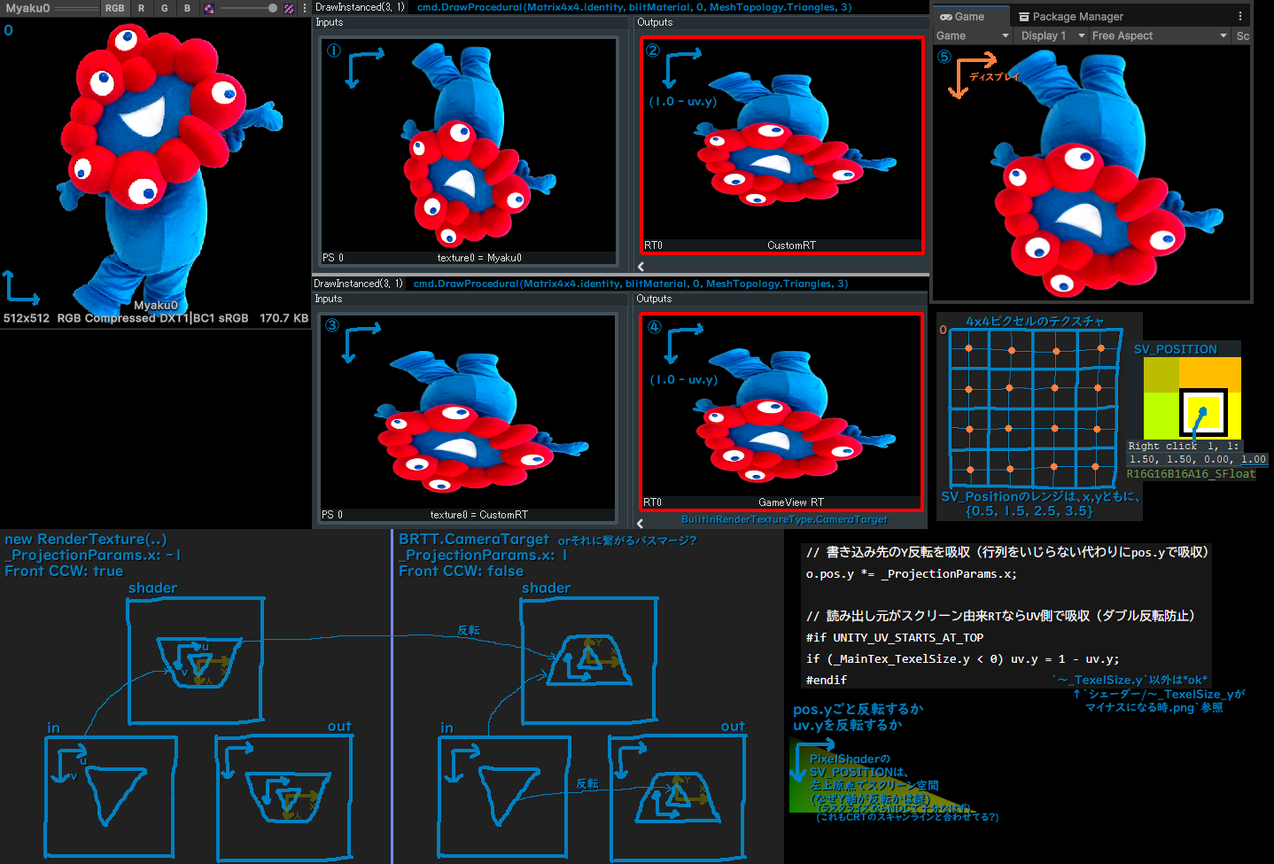
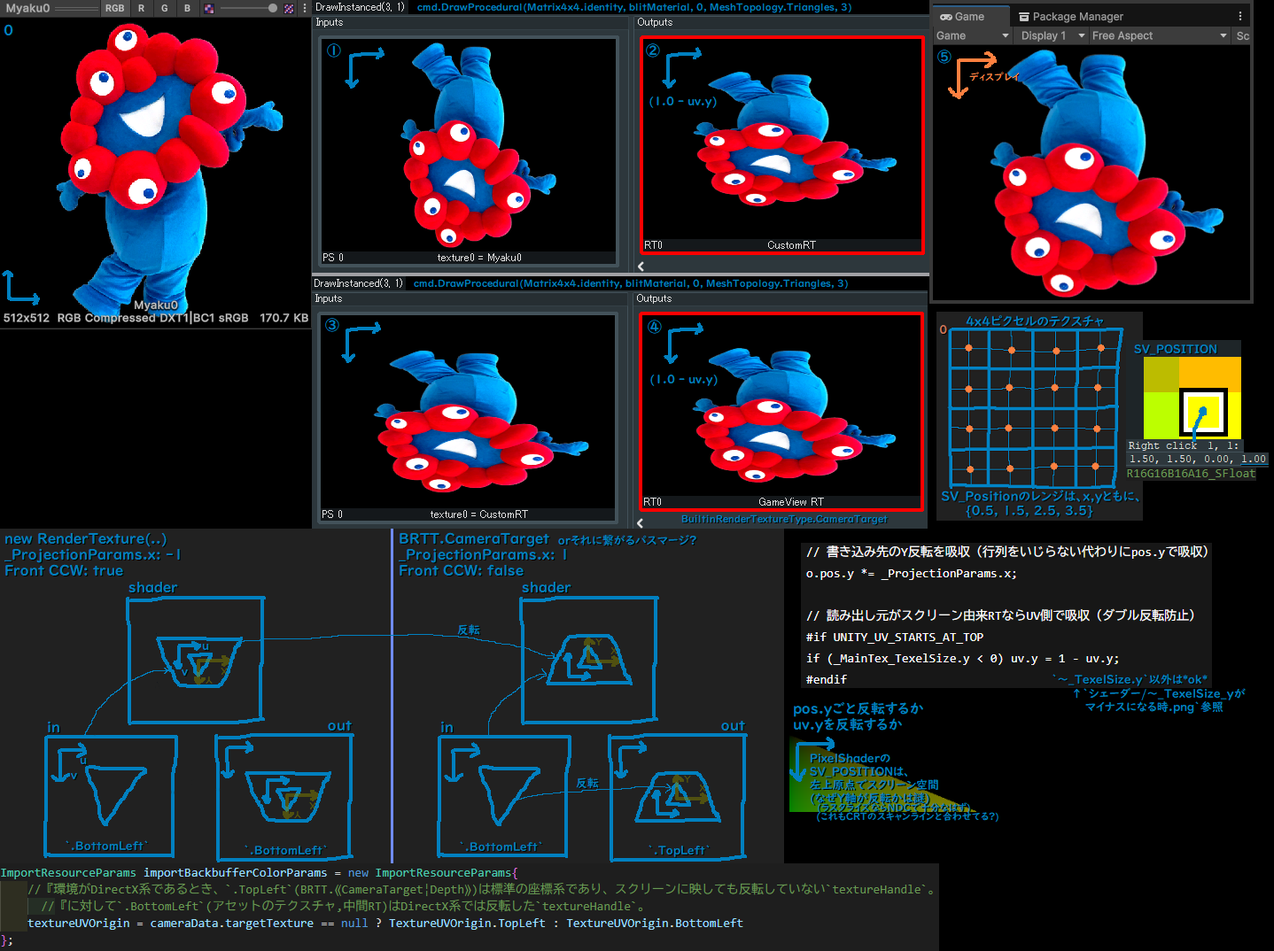
OnMainRendering突入

diff --git a/Unity_memo/グラフィックス関連/URPレンダリングフローまとめ1.md b/Unity_memo/グラフィックス関連/URPレンダリングフローまとめ1.md
@@ -10,7 +10,7 @@
         UniversalResourceData resourceData = frameData.Get<UniversalResourceData>();
 
         useRenderPassEnabled = renderGraph.nativeRenderPassesEnabled;
-        MotionVectorRenderPass.SetRenderGraphMotionVectorGlobalMatrices(renderGraph, cameraData); //『保留
+        MotionVectorRenderPass.SetRenderGraphMotionVectorGlobalMatrices(renderGraph, cameraData);
 
         /*☆*/m_ForwardLights.SetupRenderGraphLights(renderGraph, frameData.Get<UniversalRenderingData>(), cameraData, frameData.Get<UniversalLightData>());
 
@@ -18,17 +18,43 @@
 
         RecordCustomRenderGraphPasses(renderGraph, RenderPassEvent.BeforeRendering);
 
-        TextureHandle target = resourceData.activeColorTexture.IsValid() ? resourceData.activeColorTexture : resourceData.activeDepthTexture;
-        SetupRenderGraphCameraProperties(renderGraph, target);
+        TextureHandle activeTargetForIsYFlipped = resourceData.activeColorTexture.IsValid() ? resourceData.activeColorTexture : resourceData.activeDepthTexture;
+        /*☆*/SetupRenderGraphCameraProperties(renderGraph, activeTargetForIsYFlipped);
 
-    #if VISUAL_EFFECT_GRAPH_0_0_1_OR_NEWER
-        ProcessVFXCameraCommand(renderGraph);
-    #endif
+        #if VISUAL_EFFECT_GRAPH_0_0_1_OR_NEWER //『↓コードが有効でない(灰色)なのは、このUnityプロジェクトに`Visual Effect Graph パッケージ`が入っていない
+                    ProcessVFXCameraCommand(renderGraph); //『AddUnsafePass =>
+                        //『CommandBufferHelpers.VFXManager_ProcessCameraCommand(cmd, camera, cullResults) =>extern
+        #endif
 
         if (requireResults.isCameraTargetOffscreenDepth){OnOffscreenDepthTextureRendering(renderGraph, context, resourceData, cameraData); return;}
         OnBeforeRendering(renderGraph);
         OnMainRendering(renderGraph, context, requireResults.renderPassInputs, requireResults.requirePrepass, requireResults.requireDepthTexture);
         OnAfterRendering(renderGraph, requireResults.applyPostProcessing);
+    }
+    ```
+  - `void MotionVectorRenderPass.SetRenderGraphMotionVectorGlobalMatrices(renderGraph, cameraData)`
+    ```csharp (images\URPレンダリングフローまとめ\まとめ1\SetRenderGraphMotionVectorGlobalMatrices.png)
+    static void SetRenderGraphMotionVectorGlobalMatrices(RenderGraph renderGraph, UniversalCameraData cameraData)
+    {
+        if (cameraData.camera.TryGetComponent<UniversalAdditionalCameraData>(out var additionalCameraData))
+        {
+            using (var builder = renderGraph.AddRasterRenderPass<MotionMatrixPassData>(s_SetMotionMatrixProfilingSampler.name, out var passData, s_SetMotionMatrixProfilingSampler))
+            {
+                passData.motionData = additionalCameraData.motionVectorsPersistentData;
+                passData.xr = cameraData.xr;
+
+                builder.AllowGlobalStateModification(true);
+                builder.SetRenderFunc(static (MotionMatrixPassData data, RasterGraphContext context) =>
+                {
+                    data.motionData.SetGlobalMotionMatrices(context.cmd, data.xr);
+                        //『class MotionVectorsPersistentData
+                            //『var passID/*`0`*/ = GetXRMultiPassId(xr); //『`xr.enabled==false`なので`0`が返る
+                            //『cmd.SetGlobalMatrix(ShaderPropertyId.previousViewProjectionNoJitter/*_PrevViewProjMatrix*/, previousViewProjectionStereo[passID]);
+                            //『cmd.SetGlobalMatrix(ShaderPropertyId.viewProjectionNoJitter/*_NonJitteredViewProjMatrix*/, viewProjectionStereo[passID]);
+
+                });
+            }
+        }
     }
     ```
   - `void m_ForwardLights.`**SetupRenderGraphLights**`(renderGraph, frameData.Get<UniversalRenderingData>(), cameraData, frameData.Get<UniversalLightData>())`
@@ -812,7 +838,8 @@
                 bool clearBackbufferOnFirstUse = (cameraData.renderType == CameraRenderType.Base) && !s_RequiresIntermediateAttachments; //『`中間RT`が全画面より小さい`Viewport`の可能性があるためクリアできない
                 clearBackbufferOnFirstUse |= isCameraTargetOffscreenDepth; // オフスクリーン深度テクスチャへレンダリングしている場合はクリアを強制します。
                 bool noStoreOnlyResolveBBColor = !s_RequiresIntermediateAttachments && (cameraData.cameraTargetDescriptor.msaaSamples > 1); //『>MSAA の生データを最後まで store しなくても、 resolve 済み結果だけ残せばいい。
-                TextureUVOrigin backbufferTextureUVOrigin = cameraData.targetTexture == null ? TextureUVOrigin.TopLeft : TextureUVOrigin.BottomLeft;//『`.TopLeft`は反転するという意思表示?
+                //『環境がDirectX系であるとき、`.TopLeft`(BRTT.⟪CameraTarget¦Depth⟫)は標準の座標系であり、スクリーンに映しても反転していない`textureHandle`。に対して`.BottomLeft`(アセットのテクスチャ,中間RT)はDirectX系では反転した`textureHandle`。
+                TextureUVOrigin backbufferTextureUVOrigin = cameraData.targetTexture == null ? TextureUVOrigin.TopLeft : TextureUVOrigin.BottomLeft;
                 ImportResourceParams importBackbufferColorParams = new ImportResourceParams
                 {
                     clearOnFirstUse = clearBackbufferOnFirstUse,
@@ -1069,7 +1096,207 @@
                     }
                 }
                 ```
-  - `void OnBeforeRendering(renderGraph)`
+  - `void` **RecordCustomRenderGraphPasses**`(renderGraph, RenderPassEvent.BeforeRendering)`
+    ```csharp (関数圧縮:https://chatgpt.com/c/6a94ec55-3984-83ee-bb66-9a9bc2fb3209) (images\URPレンダリングフローまとめ\まとめ1\RecordCustomRenderGraphPasses.png)
+    internal void RecordCustomRenderGraphPasses(
+        RenderGraph renderGraph,
+        RenderPassEvent startInjectionPoint,
+        RenderPassEvent? endInjectionPoint = null)
+    {
+        RenderPassEvent end = endInjectionPoint ?? startInjectionPoint;
+        int range = ScriptableRenderPass.GetRenderPassEventRange(end);
+        RenderPassEvent eventEnd = end + range;
+
+        foreach (ScriptableRenderPass pass in m_ActiveRenderPassQueue)
+        {
+            if (pass.renderPassEvent >= startInjectionPoint &&
+                pass.renderPassEvent < eventEnd)
+            {
+                pass.RecordRenderGraph(renderGraph, m_frameData);
+            }
+        }
+    }
+    ```
+  - `void` **SetupRenderGraphCameraProperties**`(renderGraph, activeTargetForIsYFlipped)`
+    ```csharp (images\URPレンダリングフローまとめ\まとめ1\SetupRenderGraphCameraProperties\Input_hlsl.png)
+    internal void SetupRenderGraphCameraProperties(RenderGraph renderGraph, TextureHandle targetForIsYFlipped)
+    {
+        using (var builder = renderGraph.AddRasterRenderPass<PassData>(Profiling.setupCamera.name, out var passData,
+            Profiling.setupCamera))
+        {
+            passData.renderer = this;
+            passData.cameraData = frameData.Get<UniversalCameraData>();
+            passData.cameraTargetSizeCopy = new Vector2Int(passData.cameraData.cameraTargetDescriptor.width, passData.cameraData.cameraTargetDescriptor.height);
+            passData.targetForIsYFlipped = targetForIsYFlipped;
+
+            builder.AllowGlobalStateModification(true);
+
+            builder.SetRenderFunc(static (PassData data, RasterGraphContext context) =>
+            {
+                bool isTargetYFlipped = SystemInfo.graphicsUVStartsAtTop && RenderingUtils.IsHandleYFlipped(context, in data.targetForIsYFlipped);
+
+                if (data.cameraData.renderType == CameraRenderType.Base)
+                {
+                    context.cmd.SetupCameraProperties(data.cameraData.camera);
+                    data.renderer.SetPerCameraShaderVariables(context.cmd, data.cameraData, data.cameraTargetSizeCopy, isTargetYFlipped);
+                }
+                else //『`overlayCamera`は、`cmd.SetupCameraProperties(..)`を使わずに設定可能。
+                {
+                    data.renderer.SetPerCameraShaderVariables(context.cmd, data.cameraData, data.cameraTargetSizeCopy, isTargetYFlipped);
+                    data.renderer.SetPerCameraClippingPlaneProperties(context.cmd, in data.cameraData, isTargetYFlipped);
+                    data.renderer.SetPerCameraBillboardProperties(context.cmd, data.cameraData);
+                }
+
+                // `SetupCameraProperties(..)`で上書きされたシェーダー時間変数をリセットします。これを行わないと、シャドウとメインレンダリングの間で不一致が発生する可能性があります。
+                SetShaderTimeValues(context.cmd, Time.time, Time.deltaTime, Time.smoothDeltaTime); //『`Time.time`は、エディターで`Application.isPlaying==false`ならば`Time.realtimeSinceStartup`を使う
+            });
+        }
+    }
+    ```
+  - `void ProcessVFXCameraCommand(renderGraph)`: (images\URPレンダリングフローまとめ\まとめ1\ProcessVFXCameraCommand.png) (実際のエフェクト描画は`OnMainRendering(..)`の`cmd.DrawRendererList(rendererList)`)
+    - `void context.cmd.SetupCameraProperties(data.cameraData.camera)`: (classモジュール\images\SetupCameraProperties.png)
+    - `void data.renderer.`**SetPerCameraShaderVariables**`(context.cmd, data.cameraData, data.cameraTargetSizeCopy, isTargetYFlipped)`
+        ```csharp (images\URPレンダリングフローまとめ\まとめ1\SetupRenderGraphCameraProperties\SetPerCameraShaderVariables.png)
+        void SetPerCameraShaderVariables(RasterCommandBuffer cmd, UniversalCameraData cameraData, Vector2Int cameraTargetSizeCopy, bool isTargetYFlipped)
+        {
+            using var profScope = new ProfilingScope(Profiling.setPerCameraShaderVariables);
+
+            Camera camera = cameraData.camera;
+
+            //『カメラターゲットサイズ-------------(`cameraTargetSizeCopy.x = cameraData.scaledWidth = baseCamera.pixelWidth * cameraData.renderScale`)
+            float scaledCameraTargetWidth = (float)cameraTargetSizeCopy.x * (camera.allowDynamicResolution ? ScalableBufferManager.widthScaleFactor : 1.0f);
+            float scaledCameraTargetHeight = (float)cameraTargetSizeCopy.y * (camera.allowDynamicResolution ? ScalableBufferManager.heightScaleFactor : 1.0f);
+            // オーバーレイカメラはビューポートを持ちません。カメラのビューポートではなく、計算済み/継承されたビューポートを使用する必要があります。
+                //『分岐削除(`overlayCamera`も`baseCamera`の値を使う)
+            float cameraWidth = (float)cameraData.pixelWidth; //『(`baseCamera.pixelWidth`)
+            float cameraHeight = (float)cameraData.pixelHeight;
+
+            //『`camera`パラメータ---------------------------------------------------------------------------------
+            float near = camera.nearClipPlane;
+            float far = camera.farClipPlane;
+            float invNear = Mathf.Approximately(near, 0.0f) ? 0.0f : 1.0f / near;
+            float invFar = Mathf.Approximately(far, 0.0f) ? 0.0f : 1.0f / far;
+            float isOrthographic = camera.orthographic ? 1.0f : 0.0f;
+
+            //『各種GlobalPropertyを設定================================================================================
+            //『Cameraパラメータ===============----------------------------------
+            if (cameraData.renderType == CameraRenderType.Overlay)
+            {
+                // `projectionFlipSign`は GfxDevice::SetInvertProjectionMatrix の深部にあり、これは`overlayCamera`のゲームビュー向け。それ以外は`cmd.SetupCameraProperties(..)`で正しく設定される。
+                float projectionFlipSign = isTargetYFlipped ? -1.0f : 1.0f;
+                Vector4 projectionParams = new Vector4(projectionFlipSign, near, far, 1.0f * invFar);
+                /*☆*/cmd.SetGlobalVector(ShaderPropertyId.projectionParams, projectionParams);
+            }
+            // https://docs.unity3d.com/Manual/SL-UnityShaderVariables.html に記載されているCameraとScreenの変数 (images\URPレンダリングフローまとめ\まとめ1\SetupRenderGraphCameraProperties\UnityShaderVariables.png)
+            cmd.SetGlobalVector(ShaderPropertyId.worldSpaceCameraPos, cameraData.worldSpaceCameraPos);
+            cmd.SetGlobalVector(ShaderPropertyId.zBufferParams, GetZBufferParams(far, invNear, invFar));
+            cmd.SetGlobalVector(ShaderPropertyId.orthoParams, new Vector4(camera.orthographicSize * cameraData.aspectRatio, camera.orthographicSize, 0.0f, isOrthographic));
+
+            //『Screenサイズ===============----------------------------------
+            cmd.SetGlobalVector(ShaderPropertyId.screenParams, new Vector4(cameraWidth, cameraHeight, 1.0f + 1.0f / cameraWidth, 1.0f + 1.0f / cameraHeight));
+            //『`_ScaledScreenParams`,`_ScreenSize`は、`cameraData.cameraTargetDescriptor.width/height`を使用。(`camera.allowDynamicResolution==true`の場合に`ScalableBufferManager.width/heightScaleFactor`を乗算)
+            cmd.SetGlobalVector(ShaderPropertyId.scaledScreenParams, new Vector4(scaledCameraTargetWidth, scaledCameraTargetHeight, 1.0f + 1.0f / scaledCameraTargetWidth, 1.0f + 1.0f / scaledCameraTargetHeight));
+            /*☆*/cmd.SetGlobalVector(ShaderPropertyId.screenSize, new Vector4(scaledCameraTargetWidth, scaledCameraTargetHeight, 1.0f / scaledCameraTargetWidth, 1.0f / scaledCameraTargetHeight));
+            //『ScreenCoordOverride----------------------------------
+            cmd.SetKeyword(ShaderGlobalKeywords.SCREEN_COORD_OVERRIDE, cameraData.useScreenCoordOverride); //『(images\URPレンダリングフローまとめ\まとめ1\SetupRenderGraphCameraProperties\SCREEN_COORD_OVERRIDE.png)
+            cmd.SetGlobalVector(ShaderPropertyId.screenSizeOverride, cameraData.screenSizeOverride);
+            cmd.SetGlobalVector(ShaderPropertyId.screenCoordScaleBias, cameraData.screenCoordScaleBias);
+            //『_RTHandleScale----------------------------------
+            //『現状この箇所では固定値 // TODO(@sandy-carter): 動的スケーリングの準備ができたら RTHandles.rtHandleProperties.rtHandleScale に設定する
+            cmd.SetGlobalVector(ShaderPropertyId.rtHandleScale, Vector4.one);
+
+            //『☆_GlobalMipBias===============----------------------------------
+            //『5.6Sol:現在のレンダリング解像度ではなく、最終的な画像解像度に基づいてmipLvを補正する (`scaledCameraTargetWidth / cameraWidth`は単位変換)
+            // ダウンサンプリング時に画像のディテールを減らしてしまわないよう、この値を 0.0 以下にクランプ(Math.Min(., 0.0f))します。
+            float mipBias = Math.Min((float)Math.Log(scaledCameraTargetWidth / cameraWidth, 2.0f), 0.0f);
+            float taaMipBias = Math.Min(cameraData.taaSettings.mipBias, 0.0f); mipBias = Math.Min(mipBias, taaMipBias); // Temporal Anti-aliasing (気にしなくてよい)
+            cmd.SetGlobalVector(ShaderPropertyId.globalMipBias, new Vector2(mipBias, Mathf.Pow(2.0f, mipBias)));
+
+            //『SetCameraMatrices===============----------------------------------
+            SetCameraMatrices(cmd, cameraData, isTargetYFlipped);
+        }
+        //『(images\URPレンダリングフローまとめ\まとめ1\SetupRenderGraphCameraProperties\ZBufferParams.png)
+        static Vector4 GetZBufferParams(float far, float invNear, float invFar)
+        {
+            float zc0 = 1.0f - far * invNear;
+            float zc1 = far * invNear;
+            Vector4 zBufferParams = new Vector4(zc0, zc1, zc0 * invFar, zc1 * invFar);
+            if (SystemInfo.usesReversedZBuffer)
+            {
+                zBufferParams.y += zBufferParams.x;
+                zBufferParams.x = -zBufferParams.x;
+                zBufferParams.w += zBufferParams.z;
+                zBufferParams.z = -zBufferParams.z;
+            }
+            return zBufferParams;
+        }
+        ```
+      - `static void` **SetCameraMatrices**`(cmd, cameraData, isTargetYFlipped)`
+        ```csharp (images\URPレンダリングフローまとめ\まとめ1\SetupRenderGraphCameraProperties\SetCameraMatrices.png)
+        static void SetCameraMatrices(RasterCommandBuffer cmd, UniversalCameraData cameraData, bool isTargetYFlipped)
+        {
+            //『⟪V¦P¦VP⟫------------------------
+            // 注意: URP のデフォルトのメイン ビュー/プロジェクション 行列は CameraData のビュー/プロジェクション行列です。
+            Matrix4x4 viewMatrix = cameraData.GetViewMatrix();
+            Matrix4x4 projectionMatrix = cameraData.GetProjectionMatrix(); // ジッター適用済み、非 GPU
+            // デフォルトのビュー/プロジェクションを設定します。注意: projectionMatrix はレンダリング用に GPU プロジェクション (gfx API 調整済み) として設定されます。
+            cmd.SetViewProjectionMatrices(viewMatrix, projectionMatrix); //『**全ての順方向Matrix**を設定 (`glstate_matrix_projection`,`unity_Matrix⟪V¦VP⟫`)
+
[1 lines of base64/hex data omitted]
+
+            //『Camera版はZ反転を適用している------------------------
+            Matrix4x4 worldToCameraMatrix = Matrix4x4.Scale(new Vector3(1.0f, 1.0f, -1.0f)) * viewMatrix;
+            Matrix4x4 cameraToWorldMatrix = worldToCameraMatrix.inverse;
+            cmd.SetGlobalMatrix(ShaderPropertyId.worldToCameraMatrix, worldToCameraMatrix);
+            cmd.SetGlobalMatrix(ShaderPropertyId.cameraToWorldMatrix, cameraToWorldMatrix);
+            //『❰Inv❱⟪V¦P¦VP⟫------------------------
+            // TODO: ターゲット反転ロジックの分岐が異なるため、`inverseProjectionMatrix`は、実際のPの`glstate_matrix_projection`のInverseではない。つまり、`invP*P==I`と一致しない可能性があります。
+            Matrix4x4 gpuProjectionMatrix = cameraData.GetGPUProjectionMatrix(isTargetYFlipped);
+            Matrix4x4 inverseViewMatrix = Matrix4x4.Inverse(viewMatrix);
+            Matrix4x4 inverseProjectionMatrix = Matrix4x4.Inverse(gpuProjectionMatrix);
+            Matrix4x4 inverseViewProjection = inverseViewMatrix * inverseProjectionMatrix; //『これらを↓に移動
+            cmd.SetGlobalMatrix(ShaderPropertyId.inverseViewMatrix, inverseViewMatrix);
+            cmd.SetGlobalMatrix(ShaderPropertyId.inverseProjectionMatrix, inverseProjectionMatrix);
+            cmd.SetGlobalMatrix(ShaderPropertyId.inverseViewAndProjectionMatrix, inverseViewProjection);
+
+            // TODO: SetViewAndProjectionMatrices が y 反転 / ワインディング順の問題を引き起こす理由を調査する。当面は cmd.SetViewProjectionMatrices を使用する
+            //SetViewAndProjectionMatrices(cmd, viewMatrix, cameraData.GetDeviceProjectionMatrix()); //『将来的にこれ一括で＠❰Inv❱⟪V¦P¦VP⟫を設定する予定?
+            // TODO: オーバーレイカメラでしばらく正しく動作することを確認できたら、ここに SetPerCameraClippingPlaneProperties を追加する
+        }
+        ```
+    - `void data.renderer.SetPerCameraClippingPlaneProperties(context.cmd, in data.cameraData, isTargetYFlipped)`
+        ```csharp (images\URPレンダリングフローまとめ\まとめ1\SetupRenderGraphCameraProperties\SetPerCameraClippingPlaneProperties.png)
+        private void SetPerCameraClippingPlaneProperties(RasterCommandBuffer cmd, in UniversalCameraData cameraData, bool isTargetYFlipped)
+        {
+            Matrix4x4 projectionMatrix = cameraData.GetGPUProjectionMatrix(isTargetYFlipped);
+            Matrix4x4 viewMatrix = cameraData.GetViewMatrix();
+
+            Matrix4x4 viewProj = CoreMatrixUtils.MultiplyProjectionMatrix(projectionMatrix, viewMatrix, cameraData.camera.orthographic);
+            Plane[] planes = s_Planes;
+            GeometryUtility.CalculateFrustumPlanes(viewProj, planes); //『=>extern
+
+            Vector4[] cameraWorldClipPlanes = s_VectorPlanes;
+            for (int i = 0; i < planes.Length; ++i) //『6面分
+                cameraWorldClipPlanes[i] = new Vector4(planes[i].normal.x, planes[i].normal.y, planes[i].normal.z, planes[i].distance);
+
+            cmd.SetGlobalVectorArray(ShaderPropertyId.cameraWorldClipPlanes, cameraWorldClipPlanes);
+        }
+        ```
+    - `void data.renderer.SetPerCameraBillboardProperties(context.cmd, data.cameraData)`
+        ```csharp (images\URPレンダリングフローまとめ\まとめ1\SetupRenderGraphCameraProperties\SetPerCameraBillboardProperties.png)
+        void SetPerCameraBillboardProperties(RasterCommandBuffer cmd, UniversalCameraData cameraData)
+        {
+            cmd.SetKeyword(ShaderGlobalKeywords.BillboardFaceCameraPos, QualitySettings.billboardsFaceCameraPosition);
+
+            CalculateBillboardProperties(cameraData.GetViewMatrix(), out Vector3 billboardTangent, out Vector3 billboardNormal, out float cameraXZAngle); //『C#実装あり
+
+            cmd.SetGlobalVector(ShaderPropertyId.billboardNormal, new Vector4(billboardNormal.x, billboardNormal.y, billboardNormal.z, 0.0f));
+            cmd.SetGlobalVector(ShaderPropertyId.billboardTangent, new Vector4(billboardTangent.x, billboardTangent.y, billboardTangent.z, 0.0f)); //『多分TBN行列のようなものを作る
+            Vector3 cameraPos = cameraData.worldSpaceCameraPos;
+            cmd.SetGlobalVector(ShaderPropertyId.billboardCameraParams, new Vector4(cameraPos.x, cameraPos.y, cameraPos.z, cameraXZAngle)); //『`cameraXZAngle`によって画像を差し替える
+        }
+        ```
+  - `void OnBeforeRendering(renderGraph)`: (images\URPレンダリングフローまとめ\まとめ1\OnBeforeRendering.png)
     - `void m_ForwardLights.`**PreSetup**`(renderingData, cameraData, lightData)`
         ```csharp
         void PreSetup(UniversalRenderingData renderingData, UniversalCameraData cameraData, UniversalLightData lightData)

diff --git a/Unity_memo/グラフィックス関連/classモジュール/class_CommandBuffer.md b/Unity_memo/グラフィックス関連/classモジュール/class_CommandBuffer.md
@@ -6,7 +6,7 @@
   `camera.AddCommandBuffer(CameraEvent evt, CommandBuffer cmd)`,
   `light.AddCommandBuffer(LightEvent evt, CommandBuffer cmd ＠❰, ShadowMapPass shadowPassMask❱)`
 - `ctx.ExecuteCommandBuffer(cmd)`: `cmd`を積むだけ。(`ctx.ExecuteCB(cmd)`は`cmd`を**キャッシュして使い回す**ことができる。`⟪Begin¦End⟫Event(｢cmdName｣)`が自動的に挿入される)
-- `ctx.Submit()`: 積まれた`cmd群`の全ての処理が開始。(`ShaderProperty`が**反映される単位**)
+- `ctx.Submit()`: 積まれた`cmd群`の全ての処理が開始。(`LocalProperty`が**反映される単位**)
   - `Properties{..}`に**含める**と`LocalProperty`**のみ**(`.mat`に保存可能) (`⟪material¦compute⟫.Set～(..)`,`MaterialPropertyBlock`)
   - `Properties{..}`に**含めない**と`⟪Global¦Local⟫Property`**両方可能**'(優先順位`Local`>`Global`) (`cmd.SetGlobal～(..)`)
   - 優先順位: `MaterialPropertyBlock`>`Local`>`Global`>`Properties{..}の％値`
@@ -128,13 +128,13 @@
           :`Compute`Shaderで`⟪Buffer¦Texture⟫`を設定する場合は`int kernelIndex`が必要。
           後は大体`SetGlobal`と同じ。
       - VP_Matrix,クリッププレーン (**Draw～(..)系**の描画前に設定する)
-        - `SetupCameraProperties(Camera camera)`: `camera`から*VP_Matrix*と*クリッププレーン*を設定
-          :↓,↓↓の **ビューMatrix**,**プロジェクションMatrix** と **クリッププレーン**(`float4 unity_CameraWorldClipPlanes[6]`) と `float4 _ScreenParams` を設定
+        - `SetupCameraProperties(Camera camera)`: [SetupCameraProperties](images\SetupCameraProperties.png)
+          :**全てのMatrix**と**クリッププレーン**(`float4 unity_CameraWorldClipPlanes[6]`)と`float4 _ScreenParams`とその他色々..
+        - `SetViewProjectionMatrices(Matrix4x4 view, Matrix4x4 proj)`: **全ての順方向Matrix**を設定 (`glstate_matrix_projection`,`unity_Matrix⟪V¦VP⟫`)
         - `SetViewMatrix(Matrix4x4 view)`: ビューMatrix を設定 (`unity_MatrixV`)
           >Unityの`View`空間はOpenGLの規約と一致していて、カメラの前方方向が **-Z方向** なのです。
         - `SetProjectionMatrix(Matrix4x4 proj)`: プロジェクションMatrix を設定 (`glstate_matrix_projection`)
           設定例: `camera.projectionMatrix`, `Matrix4x4.Perspective(60, 1.777f, 0.1f, 100f)`
-        - `SetViewProjectionMatrices(Matrix4x4 view, Matrix4x4 proj)`: ビュープロジェクションMatrixを設定(**Build-inのみ**) (`unity_MatrixVP`)
       - その他
         - `SetComputeParamsFromMaterial(ComputeShader computeShader, int kernelIndex, Material material)`: `material`から**ShaderProperty**を設定 (ShaderKeywordはできない?) (`ComputeShader`の`Material`として使う?)
       - 一時RT

diff --git a/Unity_memo/グラフィックス関連/Core_hlsl/Core_hlslメモ.md b/Unity_memo/グラフィックス関連/Core_hlsl/Core_hlslメモ.md
@@ -271,8 +271,8 @@ float4x4 OptimizeProjectionMatrix(float4x4 M)
 // >例えば、シャドウをレンダリングしている間、以下の行列は依然として元のカメラの射影となります。
 float4x4 unity_CameraProjection; //=>元のカメラの OptimizeProjectionMatrix(❰float4x4❱ glstate_matrix_projection) ?
 float4x4 unity_CameraInvProjection; //=>元のカメラの unity_MatrixInvP
-float4x4 unity_WorldToCamera; //=>元のカメラの unity_MatrixV
-float4x4 unity_CameraToWorld; //=>元のカメラの unity_MatrixInvV
+float4x4 unity_WorldToCamera; //=>元のカメラの (Z反転) * unity_MatrixV
+float4x4 unity_CameraToWorld; //=>元のカメラの unity_MatrixInvV * (Z反転)
 ```
 
 #### Temporal Anti-aliasing用Matrix
@@ -481,7 +481,8 @@ float2 _GlobalMipBias; // Mipmapのバイアスを指定するパラメータ (#
 // スクリーン座標の編集系? //以下の上２つは ScreenCoordOverride.hlsl で使われていた
 float4 _ScreenCoordScaleBias; // ((positionCS.xy*0.5+0.5) * _ScreenCoordScaleBias.xy) + _ScreenCoordScaleBias.zw するもの?
 float4 _ScreenSizeOverride; // 「スクリーン座標オーバーライド」がアクティブな場合に使用されるスクリーンサイズを指定するためのパラメータ
-float4 _ScaledScreenParams; // スクリーンパラメータ（スケーリングされたスクリーンの解像度やアスペクト比に関する情報）//`_ScreenParams`のRTHandle版らしい?
+
+float4 _ScaledScreenParams; // スクリーンパラメータ（スケーリングされたスクリーンの解像度やアスペクト比に関する情報）//`_ScreenParams`の❰* `.renderScale`＠❰* DynamicRes❱❱版
 
 float _AlphaToMaskAvailable; // Alpha-to-coverageモード: Pass{AlphaToMask On 『MSAAで使用することを目的』} の時、1.0になる?
   //AlphaToCoverageEnable(DirectX12メモ.md/G:421)と、SharpenAlpha(..)(Common.hlsl/G:1773)を使っている?<https://youtu.be/htzYbOZ-an0?t=321>
@@ -543,7 +544,7 @@ float4 unity_OrthoParams;
 // y = height
 // z = 1 + 1.0/width //1倍 + テクセル ?
 // w = 1 + 1.0/height
-float4 _ScreenParams; //`cmd.SetupCameraProperties(camera)`で設定される事を確認した(`camera`が描画する`rt`のサイズ) (`cmd.SetRednerTarget(..)`では設定されない)
+float4 _ScreenParams; //`cmd.SetupCameraProperties(camera)`で設定される事を確認した(`camera`が描画する`rt`のサイズ(`baseCamera.pixelWidth/Height`)) (`cmd.SetRednerTarget(..)`では設定されない)
 
 // Zバッファーのリニアライズに使用される値 (http://www.humus.name/temp/Linearize%20depth.txt)
   //グラフィックス関連/images/_ZBufferParams_Zバッファーのリニアライズに使用される値.png を参照

diff --git a/Unity_memo/グラフィックス関連/classモジュール/class_Camera.md b/Unity_memo/グラフィックス関連/classモジュール/class_Camera.md
@@ -77,9 +77,9 @@
     - `int eventMask`: `Camera`のイベントを発動できるレイヤーを選択するためのマスク。(分からん)
 
 - **カメラとテクスチャに関する情報**
-  - **描画位置(ViewPort?)**
+  - **描画位置(ViewPort)**[Cameraサイズ](images\Cameraサイズ.png)
     - `Rect ＠❰pixel❱Rect`: 画面上の **⟪正規(0～1)¦ピクセル(解像度)⟫座標**でどこに`Camera`が描画されるか。
-    - `int ＠❰scaled❱pixel⟪Width¦Height⟫`: `Camera`の解像度の`⟪Width¦Height⟫`幅。(`ViewPort.⟪x¦y⟫`) (`❰scaled❱`は、**ダイナミック解像度**のスケーリングを**考慮する**) (Read-Only)
+    - `int ＠❰scaled❱pixel⟪Width¦Height⟫`: `Camera`の解像度の`⟪Width¦Height⟫`幅。(`(int)pixelRect.⟪width¦height⟫`) (`❰scaled❱`は、**ダイナミック解像度**のスケーリングを**考慮する**) (Read-Only)
   - ●`Vector3` **velocity**: `Camera`のワールド空間での速度を取得します（読み取り専用）。
 
 - **テクスチャ設定**

diff --git a/Unity_memo/グラフィックス関連/URPレンダリングフローまとめ0.md b/Unity_memo/グラフィックス関連/URPレンダリングフローまとめ0.md
@@ -603,11 +603,11 @@
             cameraData.allowHDROutput<:bool> &= asset.supportsHDR;
 
             //解像度関係
+            cameraData.pixelRect<:Rect> = baseCamera.pixelRect;
             cameraData.pixel⟪Width¦Height⟫<:int> = baseCamera.pixel⟪Width¦Height⟫;
             cameraData.aspectRatio<:float> = (float)cameraData.pixelWidth / (float)cameraData.pixelHeight;
             cameraData.renderScale<:float> = cameraData.cameraType == CameraType.Game ? asset.renderScale : 1.0f;
             cameraData.isDefaultViewport<:bool> = !(Math.Abs(baseCamera.rect.x) > 0.0f || Math.Abs(baseCamera.rect.y) > 0.0f || Math.Abs(baseCamera.rect.width) < 1.0f || Math.Abs(baseCamera.rect.height) < 1.0f);
-            cameraData.pixelRect<:Rect> = baseCamera.pixelRect; //『シザー?
 
             //『デフォルト不透明`SortingCriteria`
             var commonOpaqueFlags = SortingCriteria.CommonOpaque;

diff --git a/Unity_memo/グラフィックス関連/URPレンダリングフローまとめ2.md b/Unity_memo/グラフィックス関連/URPレンダリングフローまとめ2.md
@@ -1,0 +1,5 @@
+# URPレンダリングフローまとめ2
+
+## OnMainRendering
+
+- `void OnMainRendering(renderGraph, context, requireResults.renderPassInputs, requireResults.requirePrepass, requireResults.requireDepthTexture)`
